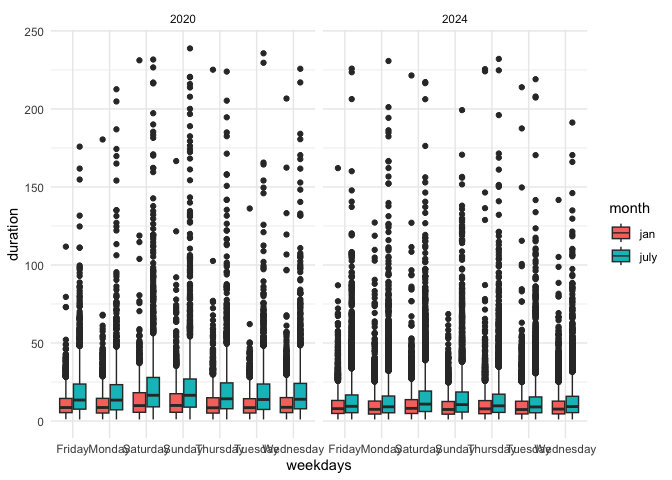
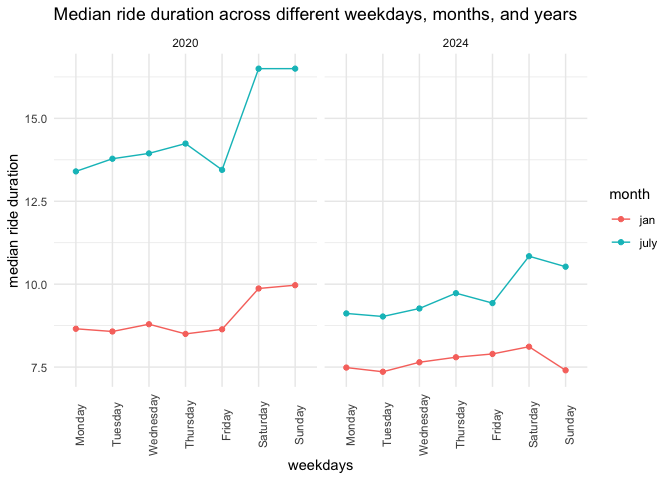
Plot 1 problem 3

diff --git a/p8105_hw3_eej2124.md b/p8105_hw3_eej2124.md
@@ -352,16 +352,37 @@ citi_bikes_df |>
 
 ``` r
 citi_bikes_df |> 
-  ggplot(aes(x = weekdays, y = duration, fill = month)) +
-  geom_boxplot() +
-  viridis::scale_color_viridis(
-    discrete = TRUE
-  ) +
+  group_by(weekdays, month, year) |> 
+  summarize(
+    median_duration = median(duration, na.rm = TRUE)
+  ) |> 
+  ggplot(aes(x = weekdays, y = median_duration, color = month, group = month)) +
+  geom_point() +
+  geom_line () +
   theme_minimal() +
-  facet_grid(. ~year)
+  theme(axis.text.x = element_text(angle = 90)) +
+  facet_grid(. ~year) +
+   labs(
+    title = "Median ride duration across different weekdays, months, and years",
+    y = "median ride duration"
+  ) +
+  scale_x_discrete(limits = c("Monday", "Tuesday", "Wednesday", "Thursday", "Friday", "Saturday", "Sunday"))
 ```
 
+    ## `summarise()` has regrouped the output.
+    ## ℹ Summaries were computed grouped by weekdays, month, and year.
+    ## ℹ Output is grouped by weekdays and month.
+    ## ℹ Use `summarise(.groups = "drop_last")` to silence this message.
+    ## ℹ Use `summarise(.by = c(weekdays, month, year))` for per-operation grouping
+    ##   (`?dplyr::dplyr_by`) instead.
+
 ![](p8105_hw3_eej2124_files/figure-gfm/unnamed-chunk-19-1.png)<!-- -->
-\# This looks terrible! - also median ride duration
+Interestingly, the median ride duration decreased in both January and
+July from 2020 to 2024. This may be a result of increasing prices for
+longer Citi Bike rides. In July, ride duration tends to be longer, most
+likely due to the warmer weather. For both January and July in 2020 and
+2024, the longest median ride duration occurs on Saturday. The weekend
+tends to have longer ride duration, except for Sunday in January 2024,
+which has significantly shorter ride durations.
 
 ## Plot 2
